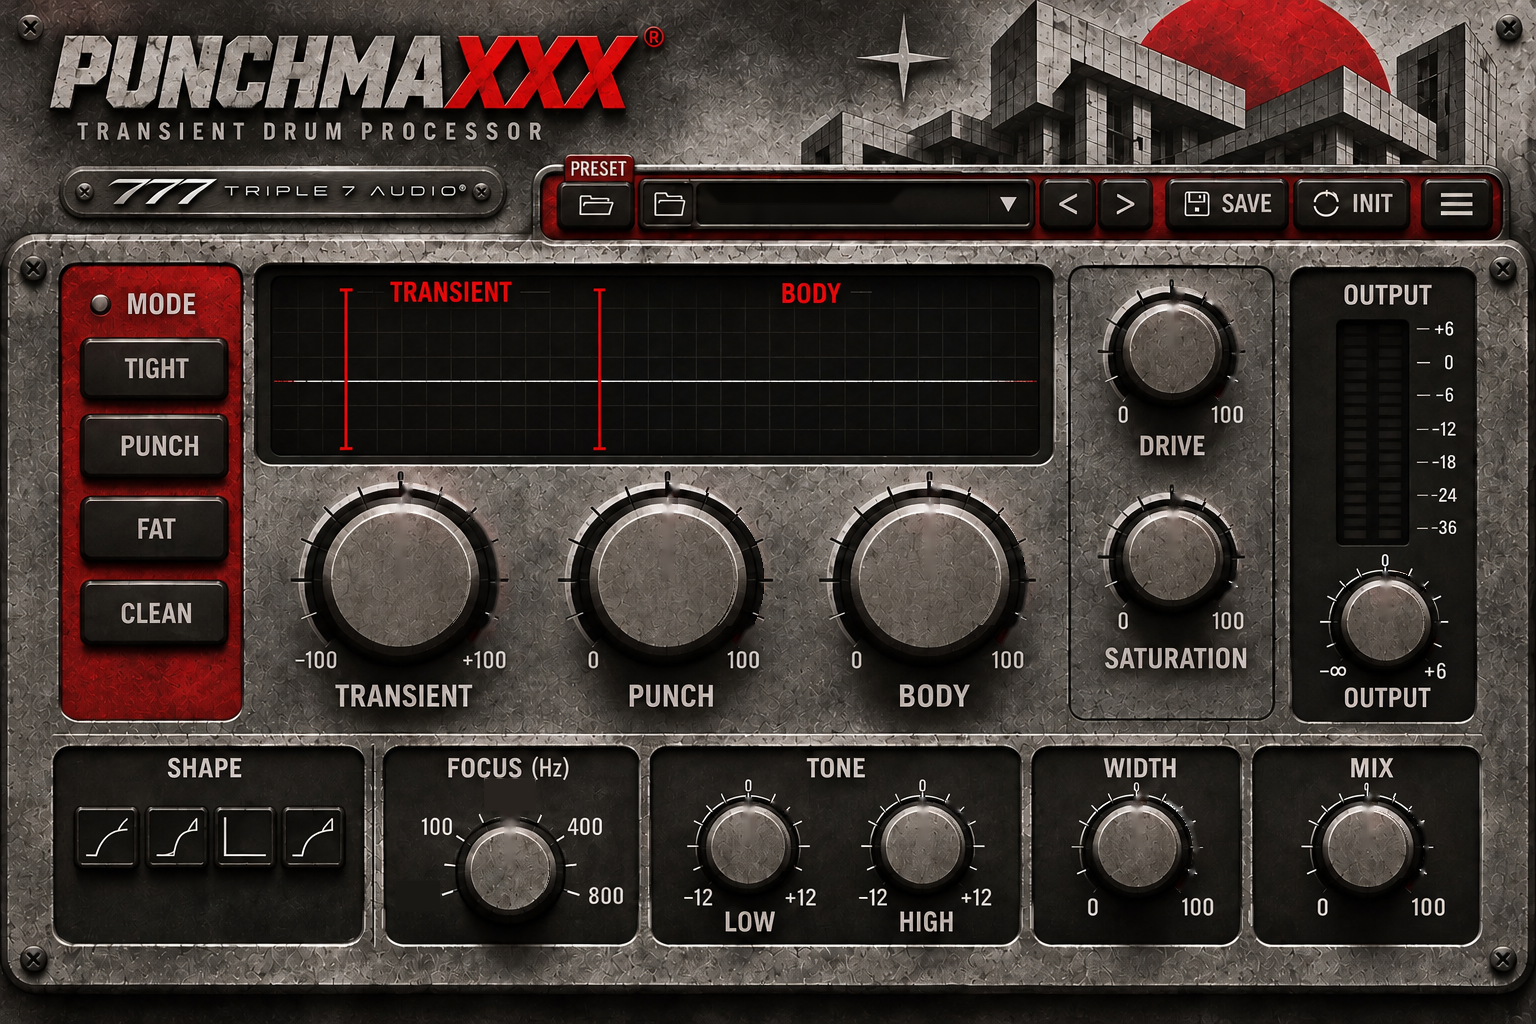
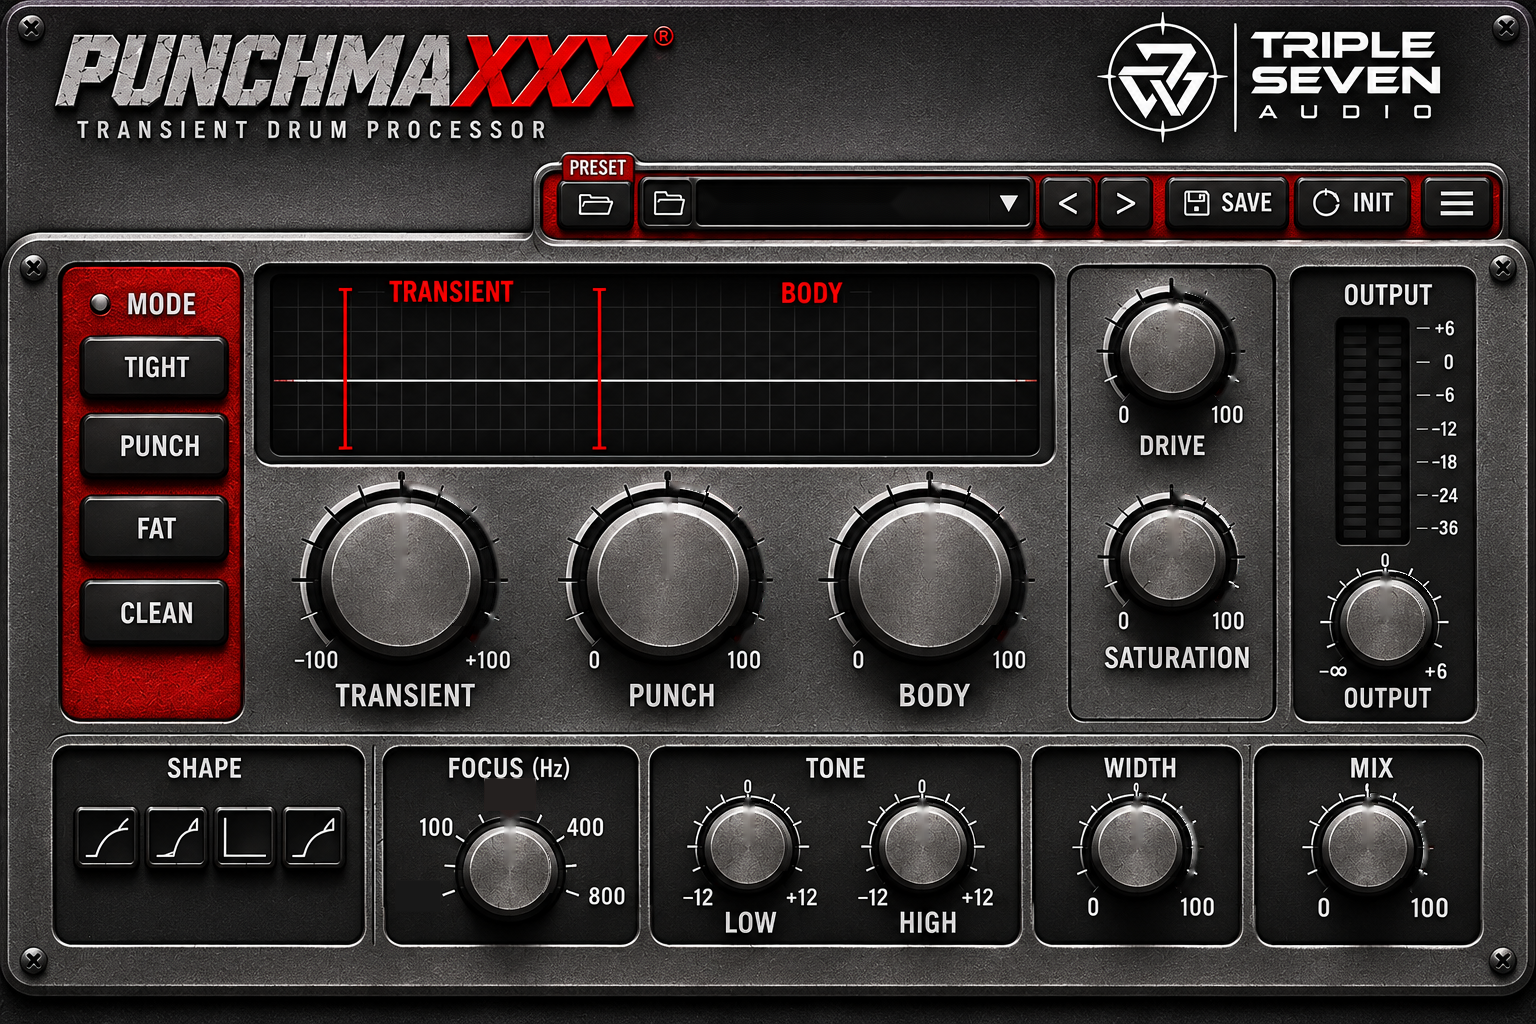
v1.1.0: TRIPLE SEVEN skin, author TRIPLE SEVEN MAFIA, one-click installers
- New UI art from the TRIPLE SEVEN AUDIO mockup (same control grid, regenerated background)
- COMPANY_NAME -> TRIPLE SEVEN MAFIA (plugin/manufacturer codes unchanged so old projects load)
- Preset folder moves to TRIPLE SEVEN MAFIA, old presets copied over automatically
- Logo links to triplesevenaudio.com
- macOS/Windows zips now include INSTALL.txt + one-click installer scripts

Claude-Session: https://claude.ai/code/session_0119y7QeRPw4L1NAWmnxtAVg

diff --git a/Source/PresetManager.cpp b/Source/PresetManager.cpp
@@ -23,13 +23,20 @@ juce::File PresetManager::defaultUserFolder()
    #if JUCE_MAC
     base = base.getChildFile ("Application Support");
    #endif
-    auto folder = base.getChildFile ("TRIPLE 7 AUDIO").getChildFile ("PUNCHMAXXX").getChildFile ("Presets");
+    auto folder = base.getChildFile ("TRIPLE SEVEN MAFIA").getChildFile ("PUNCHMAXXX").getChildFile ("Presets");
 
-    // one-time move of presets saved by the first build (before the TRIPLE 7 AUDIO rebrand)
-    auto legacy = base.getChildFile ("barnacle boi").getChildFile ("PUNCHMAXXX").getChildFile ("Presets");
-    if (legacy.isDirectory() && ! folder.isDirectory() && folder.createDirectory())
-        for (auto& f : legacy.findChildFiles (juce::File::findFiles, false, juce::String ("*") + fileExtension))
-            f.copyFileTo (folder.getChildFile (f.getFileName()));
+    // one-time copy of presets saved by earlier builds (vendor folder renamed twice)
+    if (! folder.isDirectory())
+    {
+        for (auto* oldVendor : { "TRIPLE 7 AUDIO", "barnacle boi" })
+        {
+            auto legacy = base.getChildFile (oldVendor).getChildFile ("PUNCHMAXXX").getChildFile ("Presets");
+            if (legacy.isDirectory() && folder.createDirectory())
+                for (auto& f : legacy.findChildFiles (juce::File::findFiles, false, juce::String ("*") + fileExtension))
+                    if (! folder.getChildFile (f.getFileName()).exists())
+                        f.copyFileTo (folder.getChildFile (f.getFileName()));
+        }
+    }
     return folder;
 }
 

diff --git a/Source/PluginEditor.cpp b/Source/PluginEditor.cpp
@@ -81,6 +81,7 @@ PunchmaxxxEditor::PunchmaxxxEditor (PunchmaxxxProcessor& p)
     place (saveBtn, L::btnSave, [this] { openSaveDialog(); });
     place (initBtn, L::btnInit, [this] { proc.presets.loadInit(); });
     place (menuBtn, L::btnMenu, [this] { showMainMenu(); });
+    place (logoBtn, L::logo, [] { URL ("https://triplesevenaudio.com").launchInDefaultBrowser(); });
 
     canvas.addAndMakeVisible (presetBox);
     presetBox.setBounds (L::presetBox);
@@ -235,7 +236,7 @@ void PunchmaxxxEditor::showMainMenu()
                              case 9:
                                  AlertWindow::showAsync (MessageBoxOptions().withTitle ("PUNCHMAXXX")
                                                              .withMessage (String ("Transient Drum Processor  v") + JucePlugin_VersionString
-                                                                           + "\nby TRIPLE 7 AUDIO\n\nShift-drag for fine control, double-click a knob to reset.")
+                                                                           + "\nby TRIPLE SEVEN MAFIA\n\nShift-drag for fine control, double-click a knob to reset.")
                                                              .withButton ("NICE").withAssociatedComponent (&ed), nullptr);
                                  break;
                              default:

diff --git a/Source/PluginEditor.h b/Source/PluginEditor.h
@@ -49,7 +49,8 @@ private:
 
     pmx::HotspotButton importBtn { "Load a preset file" }, folderBtn { "Open your presets folder" },
                        prevBtn { "Previous preset" }, nextBtn { "Next preset" },
-                       saveBtn { "Save preset" }, initBtn { "Reset to INIT" }, menuBtn { "Menu" };
+                       saveBtn { "Save preset" }, initBtn { "Reset to INIT" }, menuBtn { "Menu" },
+                       logoBtn { "triplesevenaudio.com" };
     pmx::PresetNameBox presetBox;
     pmx::ScopeDisplay scope;
     pmx::LedMeter meter;

diff --git a/Source/UI/Layout.h b/Source/UI/Layout.h
@@ -48,6 +48,7 @@ inline const juce::Rectangle<int> btnNext    { 859, 139, 41, 41 };
 inline const juce::Rectangle<int> btnSave    { 912, 139, 93, 41 };
 inline const juce::Rectangle<int> btnInit    { 1012, 139, 91, 41 };
 inline const juce::Rectangle<int> btnMenu    { 1110, 139, 56, 41 };
+inline const juce::Rectangle<int> logo       { 855, 10, 280, 100 };   // TRIPLE SEVEN badge (links to the site)
 
 inline const juce::Rectangle<int> display { 205, 216, 612, 142 };
 

diff --git a/README.md b/README.md
@@ -1,6 +1,6 @@
 # PUNCHMAXXX — Transient Drum Processor
 
-by TRIPLE 7 AUDIO · JUCE 8 · VST3 / AU / Standalone (macOS universal, Windows)
+by **TRIPLE SEVEN MAFIA** · [triplesevenaudio.com](https://triplesevenaudio.com) · v1.1.0 · JUCE 8 · VST3 / AU / Standalone (macOS universal, Windows)
 
 ## What the controls do
 
@@ -28,8 +28,8 @@ Knobs: drag up/down, **shift-drag** for fine, **double-click** to reset, scroll 
 - **☰ menu**: save as new, overwrite, delete, load a `.pmxx` file, open the presets folder, window size.
 - 1st folder button = load a preset file from anywhere · 2nd folder button = open your presets folder.
 - User presets live in:
-  - macOS: `~/Library/Application Support/TRIPLE 7 AUDIO/PUNCHMAXXX/Presets`
-  - Windows: `%APPDATA%\TRIPLE 7 AUDIO\PUNCHMAXXX\Presets`
+  - macOS: `~/Library/Application Support/TRIPLE SEVEN MAFIA/PUNCHMAXXX/Presets`
+  - Windows: `%APPDATA%\TRIPLE SEVEN MAFIA\PUNCHMAXXX\Presets`
 
 ## Project recall
 Everything (all knobs, mode, shape, which preset is loaded, whether you tweaked it, window size) is saved inside the DAW project and comes back exactly when the project reopens.
@@ -45,8 +45,16 @@ cmake --build build --config Release
 ```
 JUCE 8.0.4 is downloaded automatically (or drop a JUCE checkout in `./JUCE`).
 
-Install: copy `PUNCHMAXXX.vst3` → `~/Library/Audio/Plug-Ins/VST3` (mac) or `C:\Program Files\Common Files\VST3` (win); `PUNCHMAXXX.component` → `~/Library/Audio/Plug-Ins/Components`.
-The mac CI build is ad-hoc signed, not notarized — if macOS blocks it: `xattr -dr com.apple.quarantine ~/Library/Audio/Plug-Ins/VST3/PUNCHMAXXX.vst3` (same for the .component).
+## Install
+Each zip ships with `INSTALL.txt` and a one-click installer:
+- **macOS** — right-click `Install PUNCHMAXXX.command` → Open. Copies the VST3 + AU to `~/Library/Audio/Plug-Ins`, the app to `/Applications`, and clears the quarantine flag (the CI build is ad-hoc signed, not notarized).
+- **Windows** — extract the zip, double-click `Install PUNCHMAXXX.bat`, accept the admin prompt. Copies the VST3 to `C:\Program Files\Common Files\VST3`.
+
+Manual install and troubleshooting are in `install/macOS/INSTALL.txt` and `install/Windows/INSTALL.txt`.
+
+## Changelog
+- **1.1.0** — new TRIPLE SEVEN skin, author is now **TRIPLE SEVEN MAFIA**, logo links to triplesevenaudio.com, one-click installers in the release zips. Plugin IDs are unchanged, so old projects still load it; presets from the old `TRIPLE 7 AUDIO` folder are copied over automatically.
+- **1.0.0** — first release.
 
 ## Tests
 `PunchmaxxxTests` checks: project save/reopen restores every parameter + preset name + modified flag, preset save/overwrite/delete/navigation, neutral settings are transparent (-56 dB null), each knob does what it says, MIX 0 is perfectly dry, all 20 presets are clean and level-matched, mono works, and it renders the UI to PNG.
